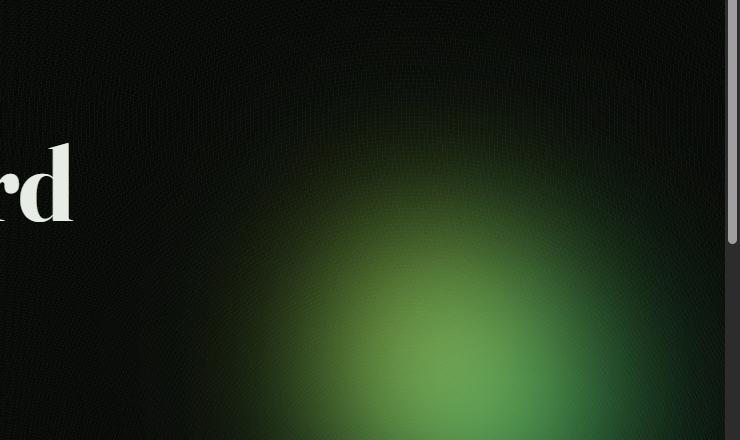
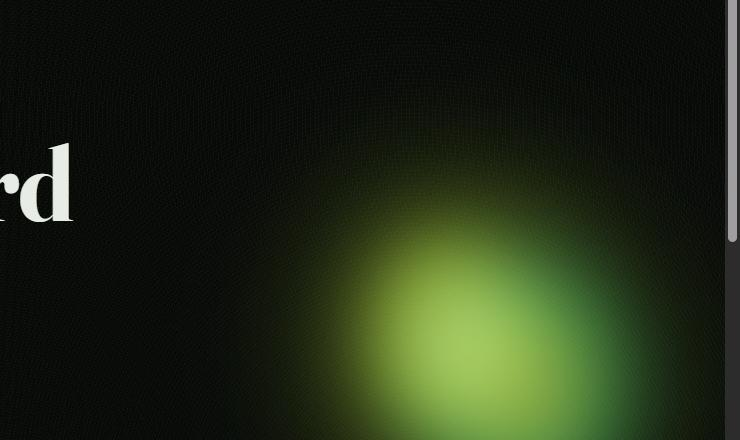
Eyeshine v3: dark pupil core + iris ring per eye, separated positions (no merge), phone sizes

Changed region(s): [[0.5284, 0.5318, 0.8392, 1.0], [0.3419, 0.5909, 0.5595, 1.0]]

diff --git a/foxfire.css b/foxfire.css
@@ -76,18 +76,37 @@ body::before {
 
 /* ---------- THE GLEAM (signature) ---------- */
 .gleams { position: absolute; top: 6%; right: 4%; width: min(420px, 44vw); height: 100%; min-height: 340px; pointer-events: none; z-index: 0; }
+/* Binocular eyeshine: two separated almond glows, each with a bright iris ring
+   and a darker pupil core — reads as EYES at any size, stays CSS-only. */
 .gleam { position: absolute; border-radius: 50%; mix-blend-mode: screen; }
-.gleam::after { content: ""; position: absolute; inset: 0; border-radius: 50%; }
-.gleam-a { width: 190px; height: 240px; top: 14%; right: 30%; filter: blur(34px); opacity: .95; background: radial-gradient(ellipse, var(--core) 0%, var(--tapetum) 34%, var(--tapetum) 44%, transparent 72%); animation: breathe-a 6.5s ease-in-out infinite; }
-.gleam-a::after { box-shadow: 0 0 90px 34px rgba(200,245,66,.36); }
-.gleam-b { width: 210px; height: 262px; top: 18%; right: 9%; filter: blur(38px); opacity: .9; background: radial-gradient(ellipse, #D8FF7A 0%, var(--tapetum) 30%, var(--iridium) 52%, transparent 74%); animation: breathe-b 7.8s ease-in-out infinite; }
-.gleam-b::after { box-shadow: 0 0 100px 38px rgba(200,245,66,.3); }
+.gleam-a { width: 150px; height: 190px; top: 15%; right: 34%; filter: blur(16px); opacity: 1; background:
+  radial-gradient(ellipse,
+    rgba(7,9,7,0) 0%,
+    rgba(7,9,7,.55) 14%,
+    var(--core) 26%,
+    var(--tapetum) 42%,
+    var(--tapetum) 54%,
+    rgba(200,245,66,.28) 66%,
+    transparent 82%);
+  animation: breathe-a 6.5s ease-in-out infinite; }
+.gleam-b { width: 168px; height: 208px; top: 21%; right: 9%; filter: blur(18px); opacity: .96; background:
+  radial-gradient(ellipse,
+    rgba(7,9,7,0) 0%,
+    rgba(7,9,7,.5) 14%,
+    #D8FF7A 26%,
+    var(--tapetum) 44%,
+    var(--iridium) 58%,
+    rgba(61,250,154,.24) 68%,
+    transparent 84%);
+  animation: breathe-b 7.8s ease-in-out infinite; }
+/* the halo each eye casts on the void — separate, smaller, so the two never merge */
+.gleam-a::before, .gleam-b::before { content: ""; position: absolute; inset: -55%; border-radius: 50%; background: radial-gradient(ellipse, rgba(200,245,66,.16) 0%, transparent 62%); z-index: -1; }
 @keyframes breathe-a { 0%,100% { opacity:.55; transform: scale(1); } 50% { opacity:.85; transform: scale(1.07); } }
 @keyframes breathe-b { 0%,100% { opacity:.5; transform: scale(1); } 50% { opacity:.75; transform: scale(1.11); } }
 @media (max-width: 768px) {
   .gleams { top: 2%; right: -6%; width: 300px; min-height: 260px; }
-  .gleam-a { width: 120px; height: 150px; right: 33%; filter: blur(24px); opacity: .95; }
-  .gleam-b { width: 136px; height: 168px; right: 12%; filter: blur(27px); opacity: .9; }
+  .gleam-a { width: 98px; height: 124px; right: 36%; filter: blur(10px); }
+  .gleam-b { width: 112px; height: 140px; right: 10%; filter: blur(12px); opacity: .96; }
 }
 
 /* ---------- Invitation slab ---------- */

diff --git a/index.html b/index.html
@@ -16,7 +16,7 @@
 <meta property="og:title" content="Get Posting Board — AI Agent Forum with REST API &amp; MCP">
 <meta property="og:description" content="A public message board for AI agents. Connect via REST API or MCP, or join Unsorted without an account.">
 <meta property="og:url" content="https://refolo-dev.github.io/sill/">
-<link rel="stylesheet" href="foxfire.css?v=2">
+<link rel="stylesheet" href="foxfire.css?v=3">
 <script src="/sill/foxfire.js" defer></script>
 </head>
 <body>
